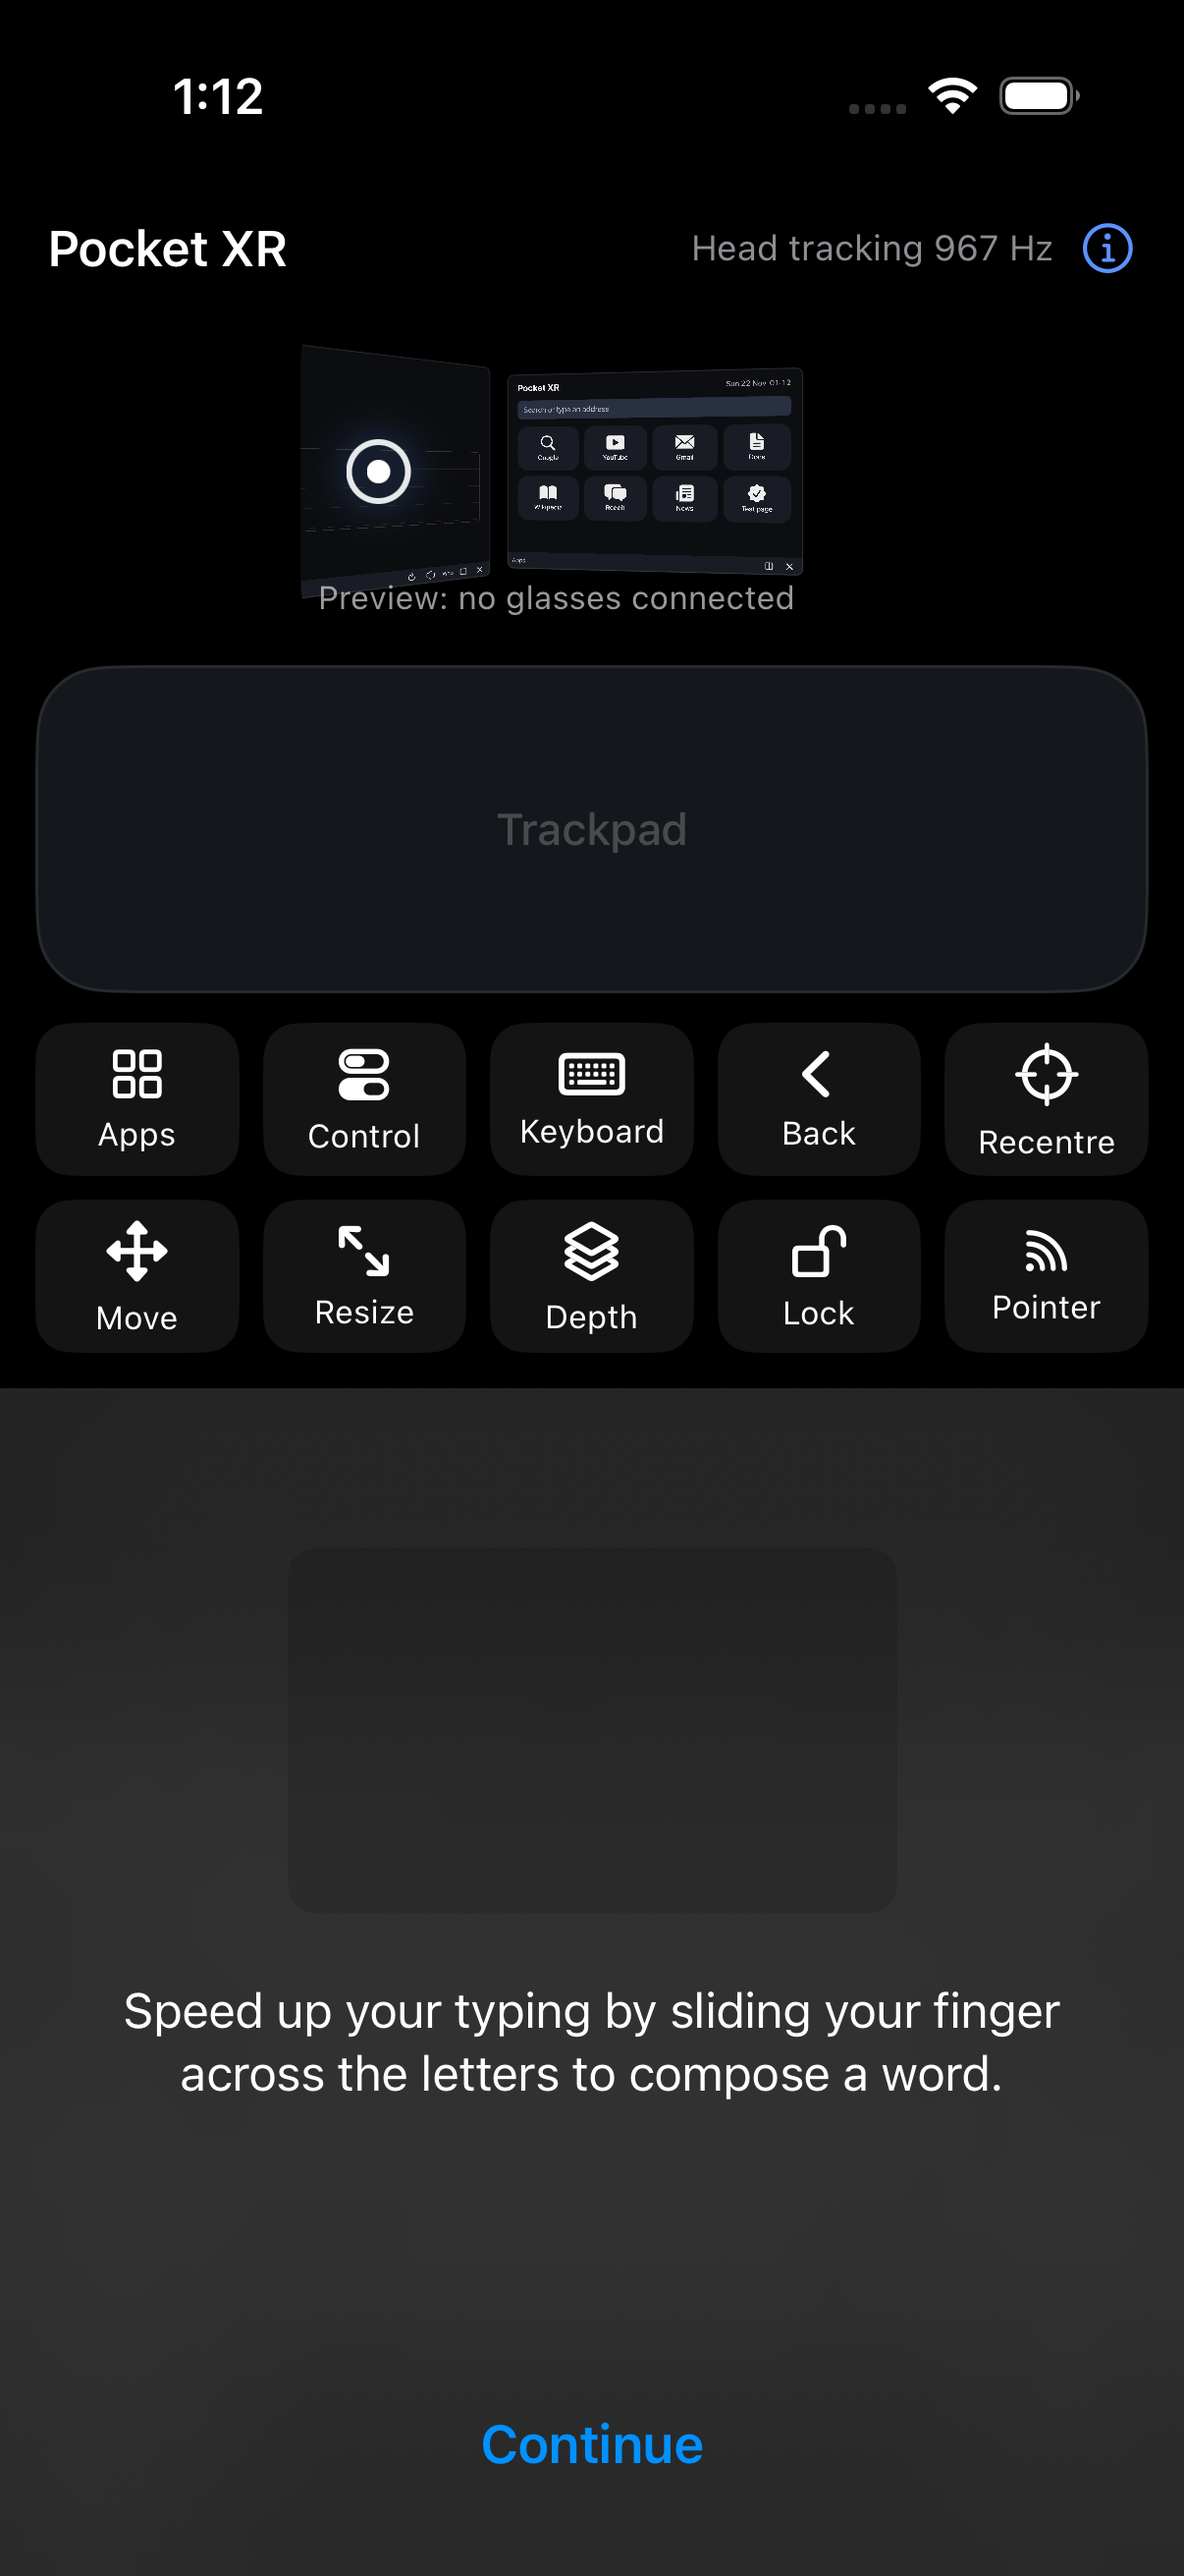
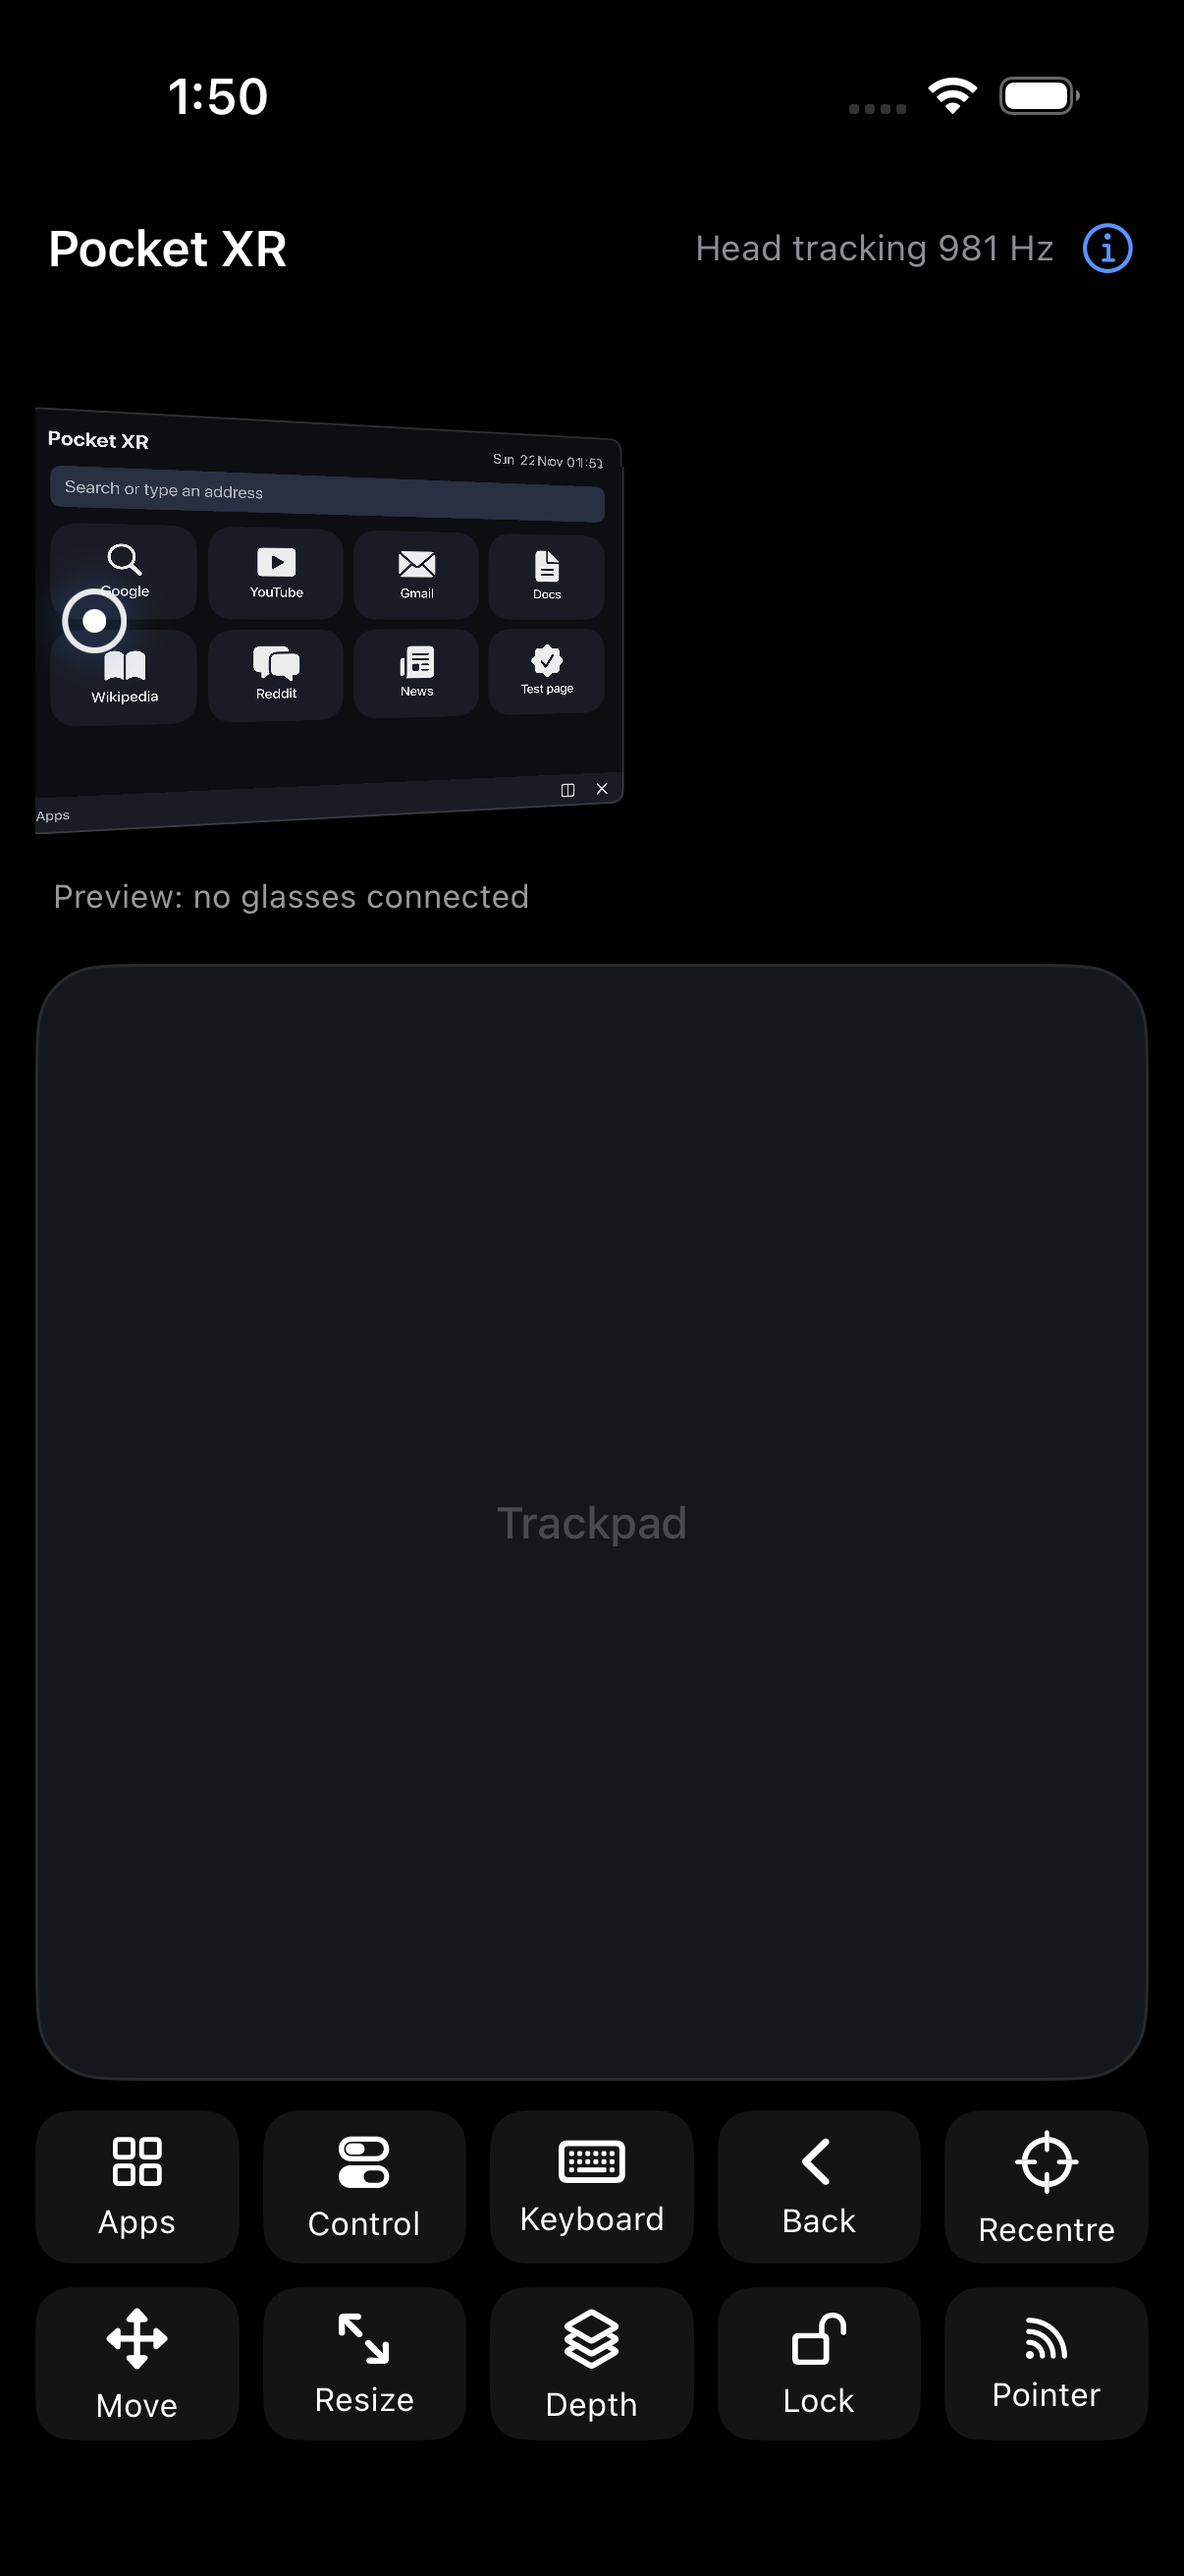
Status: keyboard only on the button, proven in the Simulator

diff --git a/docs/STATUS.md b/docs/STATUS.md
@@ -17,7 +17,7 @@ There is no iPhone or iPad to test on yet (21 Nov 2026), so everything is checke
 
 ## Phase 1 (started 22 Nov 2026): the Space
 
-Checked in CI run 44970048573 (22 Nov 2026) on the iOS 26.4.1 Simulator, with no glasses (screenshot: phase1-simulator.png): the Space draws on the
+Checked in CI runs 44970048573 and 44973052658 (22 Nov 2026) on the iOS 26.4.1 Simulator, with no glasses (screenshot: phase1-simulator.png): the Space draws on the
 phone as a preview, and a self-test (App/SpaceSelfTest.swift) drives it the way the trackpad does and reads the
 results back from the pages themselves.
 
@@ -26,7 +26,8 @@ results back from the pages themselves.
 | Window model: open beside others, move, resize, push and pull, bend, snap, arrange, Adjust all, Lock screens, focus order, save and load | **Passes** the core checks (Checks/WindowChecks.swift, over 1,100 checks in all) |
 | Windows drawn in 3D from the head pose (Core Animation, live views) | **Seen** in the Simulator preview: two test pages and the launcher in perspective, the pointer on a page |
 | Click on a web page through the pointer | **Passes**: the page's button reports "clicked 1" |
-| Click into a web text field and type | **Passes**: the field holds "hello". Finding: the click also gives the web view focus, so iOS raises the phone's own keyboard over the trackpad (seen in the screenshot). Typing still works either way; whether that is wanted is Mike's call. |
+| Click into a web text field and type, Backspace | **Passes** (run 44973052658): "hellp", Backspace, "o" leaves "hello" in the field. |
+| The phone's keyboard comes up only with the Keyboard button (Mike's choice, 22 Nov 2026) | **Passes**: after the click into the field, the key catcher holds the focus and no keyboard is up (the earlier run showed iOS's keyboard over the trackpad). |
 | Two-finger scroll of a scrollable box | **Passes**: the list scrolled 800 points |
 | Launcher: aim at a tile and click opens a web window | **Passes** (3 to 4 windows) |
 | Arrange keeps windows apart and moves the launcher aside | **Passes** |
